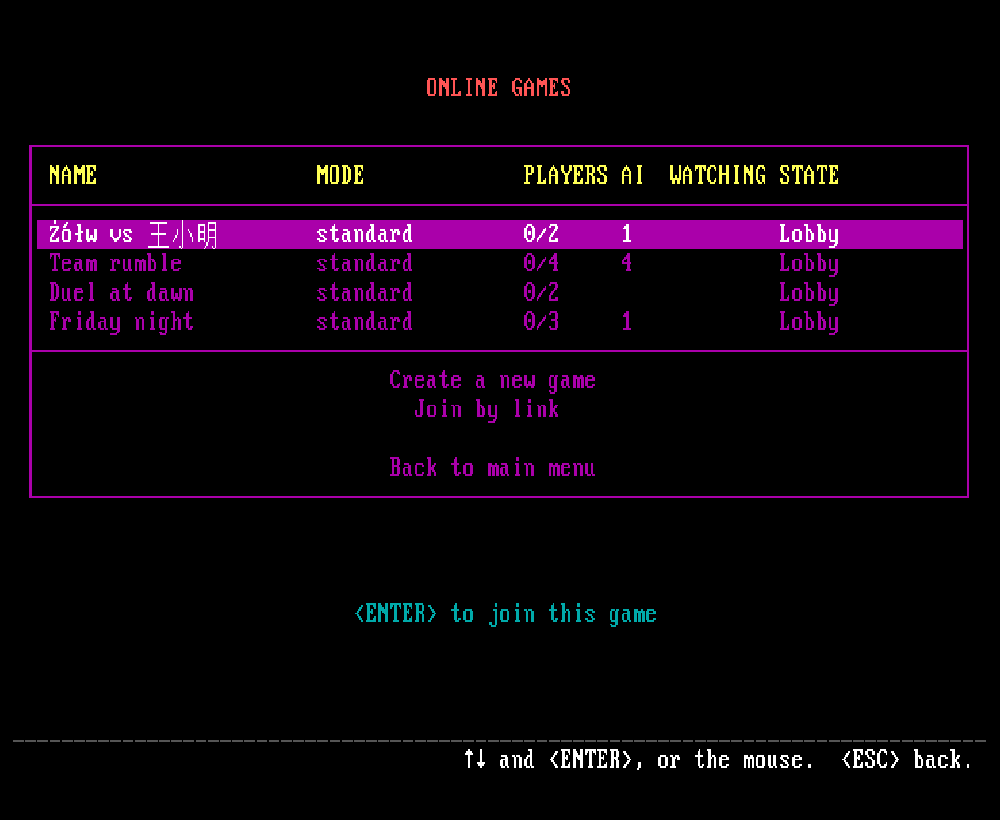
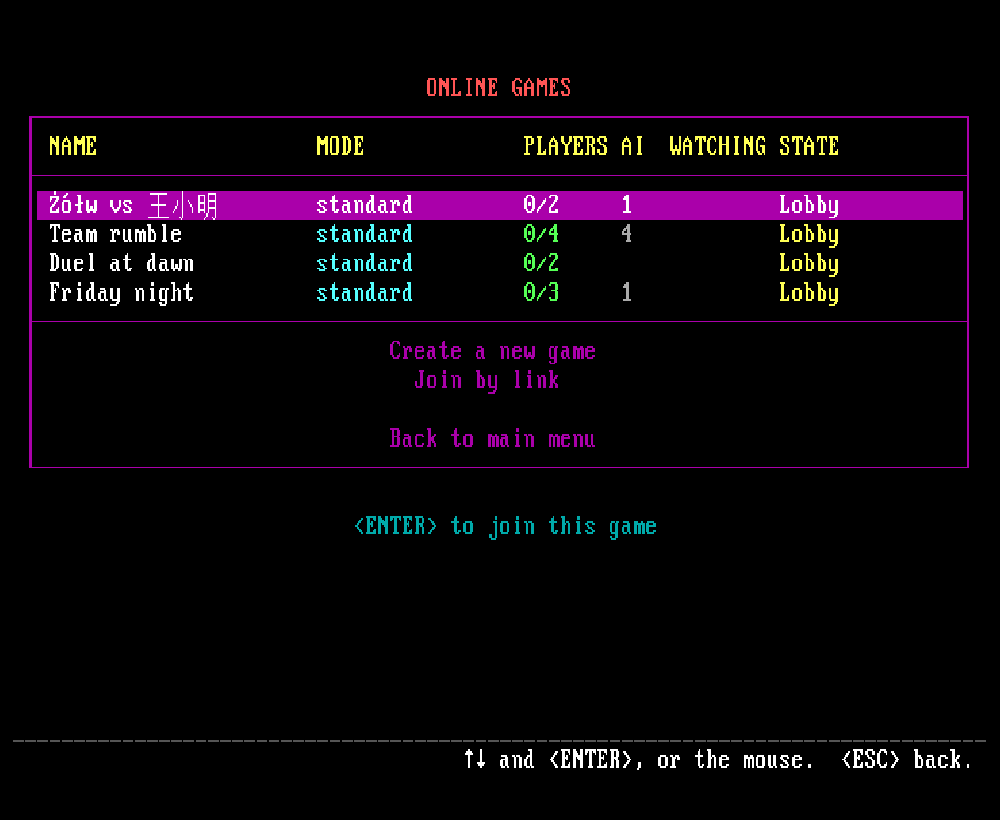
Menu colors: white values, gray read-only, colored games list; main menu higher
DosUI: a switch's value white, valueAttr for read-only values (the online
settings for non-hosts: magenta label, gray value), typed text white,
spans for per-column colors. Games list: name / mode / players / state in
their own colors, up to 9 games before it scrolls, the info right below the
box. Main menu box two rows higher. README screenshots for 3.1.0.

diff --git a/src/js/lobby.js b/src/js/lobby.js
@@ -37,11 +37,19 @@
   // the list's columns after the name: PLAYERS ("2/4": seated / seats they can take - during a match:
   // connected / its players), AI (computer tanks), WATCHING (spectators); 0 = blank
   const COLS = [22, 17, 8, 4, 9];                    // (name, mode, players, AI, watching; the state takes the rest)
+  const ROWS = 9;                                    // game rows shown at most (the box then ends on row 20, the info on rows 22-23)
   const places = r => r.places != null ? r.places : r.players + (r.open || 0);
   function rowText(r, state) {
     const P = UniText.padEnd;
     return P(UniText.slice(E(r.name), COLS[0] - 1), COLS[0]) + P(UniText.slice(T("gm." + (r.mode || "standard")), COLS[1] - 1), COLS[1]) +
       P(r.players + "/" + places(r), COLS[2]) + P(r.bots ? String(r.bots) : "", COLS[3]) + P(r.spec ? String(r.spec) : "", COLS[4]) + state;
+  }
+  // its columns' colors (DosUI spans): the name white, the mode light cyan, the players light green, AI /
+  // watching gray, the state yellow in the lobby (joinable), light magenta during a match
+  function rowSpans(r) {
+    const at = [0]; for (const w of COLS) at.push(at[at.length - 1] + w);
+    const colors = [0x0F, 0x0B, 0x0A, 0x07, 0x07, r.state === "lobby" ? 0x0E : 0x0D];
+    return colors.map((a, i) => [at[i], i < COLS.length ? at[i + 1] : 200, a]);
   }
 
 
@@ -74,10 +82,10 @@
   function list(keep) {
     view = "list";
     const items = rooms.map(r => otherVersion(r) ? {
-      label: rowText(r, "v" + r.version), align: "left", key: "room:" + r.id,
-      info: [E(r.name), ...versionInfo()], go: () => {},
+      label: rowText(r, "v" + r.version), align: "left", key: "room:" + r.id, attr: 8,   // (another version: gray)
+      info: versionInfo(), go: () => {},
     } : ({
-      label: rowText(r, stateText(r)), align: "left", key: "room:" + r.id,   // (the games you host: first, no mark)
+      label: rowText(r, stateText(r)), align: "left", key: "room:" + r.id, spans: rowSpans(r),   // (the games you host: first, no mark)
       // (the table says the rest: only whether you host it and the keys)
       info: [hosting(r) ? { text: T("lobby.host.i"), color: 14 } : null,
         T(r.spectators ? (r.state === "lobby" && r.open ? "lobby.join2" : "lobby.watch") : r.state === "lobby" && r.open ? "lobby.join" : "lobby.closed")].filter(Boolean),
@@ -93,13 +101,15 @@
     items.push({ key: "link", label: T("lobby.link"), info: [T("lobby.link.i1"), T("lobby.link.i2")], go: () => joinLink() });
     items.push({ key: "gap", label: "", disabled: true });
     items.push({ key: "back", label: T("back.main"), info: [T("back.main.i")], go: home });
+    // as many games as fit (up to ROWS, then they scroll); the box ends below them and the info follows it
+    const shown = Math.max(1, Math.min(items.length - 5, ROWS)), bottom = 3 + 3 + shown + 5;
     ui.show({
       lines: [{ row: 2, text: T("lobby.title"), color: 12 },
-        ...(serverVersion ? [{ row: 3, text: T("ver.server", { server: serverVersion, you: myVersion }), color: 12 }] : [])],
-      box: { x: 2, y: 4, w: 76, rows: 7 }, fixed: 5,
+        ...(serverVersion ? [{ row: 1, text: T("ver.server", { server: serverVersion, you: myVersion }), color: 12 }] : [])],
+      box: { x: 2, y: 3, w: 76, rows: shown }, fixed: 5,
       header: UniText.padEnd(" " + T("lobby.name"), COLS[0] + 1) + [T("lobby.mode"), T("lobby.players"), T("lobby.ai"), T("lobby.spec")].map((h, i) => UniText.padEnd(h, COLS[i + 1])).join("") +
         T("lobby.state"),
-      items, infoRow: 20, back: home,
+      items, infoRow: bottom + 2, back: home,
     }, keep);
   }
 

diff --git a/src/js/dosui.js b/src/js/dosui.js
@@ -36,6 +36,9 @@
 //                info lines may be {text, color, onClick} - clickable (e.g. the invite link)
 //                static: a read-only text row (never selected; attr, default light gray)
 //                dim: [from, to] - label columns from..to-1 drawn gray (a part that doesn't apply now)
+//                Colors: labels magenta, a switch's value (after its first ": ") white, valueAttr = a
+//                read-only value's color (light gray), typed input text white, disabled dark gray;
+//                spans: [[from, to, attr], ...] label columns in their own colors (e.g. a table row)
 //
 // ui.showPage(kind, uiMode, back[, engineOpts]) shows the game's own Instructions / Information page full screen
 // (drawn by an engine instance, like in the game); Enter, Esc or a click calls back(). A page longer
@@ -221,6 +224,19 @@ class DosUI {
     const attr = it.static ? it.attr || 0x07 : i === this.sel ? SEL : it.disabled ? DISABLED : it.attr || ATTR;
     for (let c = 0; c < b.w; c++) t.vram[o + c * 2 + 1] = attr;
     const x0 = (it.align === "left" ? 1 : this.centreStart(i, b, labelW + valueW)) + labelW;
+    // values in their own colors (not on the highlight bar, not when disabled): it.spans = [[from, to,
+    // attr], ...] label columns; a switch's value (the label after its first ": ") white, a read-only
+    // one (valueAttr, e.g. 7) light gray; an input's typed text white
+    if (i !== this.sel && !it.disabled) {
+      const L = x0 - labelW;
+      const paint = (from, to, a) => { for (let c = Math.max(0, L + from); c < Math.min(b.w, L + to); c++) t.vram[o + c * 2 + 1] = a; };
+      if (it.spans) for (const [from, to, a] of it.spans) paint(from, to, a);
+      else if (it.valueAttr || (it.change && !it.attr)) {
+        const k = it.label.indexOf(": ");
+        if (k >= 0) paint(U.cols(it.label.slice(0, k + 2)), labelW, it.valueAttr || 0x0F);
+      }
+      if (inp && inp.value) paint(labelW, labelW + valueW, 0x0F);
+    }
     // it.dim = [from, to]: label columns shown gray (disabled), e.g. a column that doesn't apply now
     if (it.dim && i !== this.sel)
       for (let c = x0 - labelW + it.dim[0]; c < Math.min(b.w, x0 - labelW + it.dim[1]); c++) t.vram[o + c * 2 + 1] = DISABLED;

diff --git a/src/js/online.js b/src/js/online.js
@@ -398,7 +398,7 @@
     const row = (key, label, info, step, off) => off
       ? { key, label, align: "left", static: true, attr: 8 }
       : host ? { key, label, align: "left", info, go: () => step(1), change: step }
-      : { key, label, align: "left", static: true, attr: 7 };
+      : { key, label, align: "left", static: true, attr: 5, valueAttr: 7 };   // (read-only: magenta label, gray value)
     const ML = TunnelerEngine.MODE_LIST, mode = ML.includes(s.mode) ? s.mode : "standard";
     const goalText = (m, n) => m === "infection" ? T("time.n", { n }) : String(n);
     const onOff = v => T(v ? "os.on" : "os.off");

diff --git a/src/js/home.js b/src/js/home.js
@@ -135,7 +135,7 @@
 
   function main(sel, keep) {
     ui.show({
-      lines: title(), box: { y: 11 }, sel, infoRow: update ? 22 : 20, footer: Lang.version(), home: true,
+      lines: title(), box: { y: 9 }, sel, infoRow: update ? 21 : 20, footer: Lang.version(), home: true,
       items: [
         { key: "split", label: T("home.split"), info: [T("home.split.i1"), T("home.split.i2")], go: () => split() },
         { key: "cpu", label: T("home.cpu"), info: [T("home.cpu.i1n"), T("home.cpu.i2")], go: () => cpu() },

diff --git a/test/update-check.js b/test/update-check.js
@@ -82,7 +82,7 @@ const ok = msg => { n++; console.log("  ok  " + msg); };
   {
     const { ui, calls } = await home("tauri:", { version: "9.0.0", install: true });
     const it = item(ui);
-    assert(it && ui.spec.home && ui.spec.infoRow === 22, "the item below Settings, the info lower");
+    assert(it && ui.spec.home && ui.spec.infoRow === 21, "the item below Settings, the info lower");
     assert(/9\.0\.0/.test(it.label));
     it.go();
     assert.deepStrictEqual(calls, ["update_check", "update_install"]);

diff --git a/CLAUDE.md b/CLAUDE.md
@@ -575,3 +575,9 @@ none, i.e. a page from before 2.0 - is refused (POST 409 `{code:
   app-build.yml builds the setup.exe / AppImage / .app.tar.gz + .sig and `tools/updater-manifest.js`
   makes the release's latest.json (the endpoint: releases/latest/download/latest.json); without it no
   latest.json (the apps then find no update). test/update-check.js.
+- Menu colors (DosUI.drawItem): labels magenta, a switch's value (label text after its first ": ", items
+  with `change` and no `attr`) white, `valueAttr` = a read-only value's color (online.js non-host
+  settings: attr 5 + valueAttr 7), typed input text white, disabled 8; `spans: [[from, to, attr]]` =
+  label columns in their own colors (lobby.js `rowSpans`: name 15, mode 11, players 10, AI / watching 7,
+  state 14 lobby / 13 match; another version's row attr 8). The games list box (y 3) shows up to `ROWS`
+  = 9 games, its info right below (`bottom + 2`). Main menu box y 9.

diff --git a/CHANGELOG.md b/CHANGELOG.md
@@ -14,6 +14,10 @@ a release is made by pushing a version tag (see CONTRIBUTING.md).
   `latest.json` for them. Apps older than 3.1 have no updater: install 3.1 by hand once.
 - **Server**: checks GitHub for a newer release when it starts and once a day and logs it with how to
   update (`UPDATE_CHECK=0` turns it off; nothing is downloaded).
+- **Menu colors**: a switch's value is white (read-only, e.g. the settings for everybody but the host:
+  light gray), typed text white, disabled items dark gray; the list of games in colors per column (name,
+  mode, players, state - yellow in the lobby) and up to 9 games before it scrolls, its description
+  right below; the main menu two rows higher.
 - README and homepage: Skirmish, the game modes, the installer / AppImage, and the privacy note (the app
   asks GitHub for new versions).
 - As always, only the same version plays together: update the server and the apps to 3.1.
